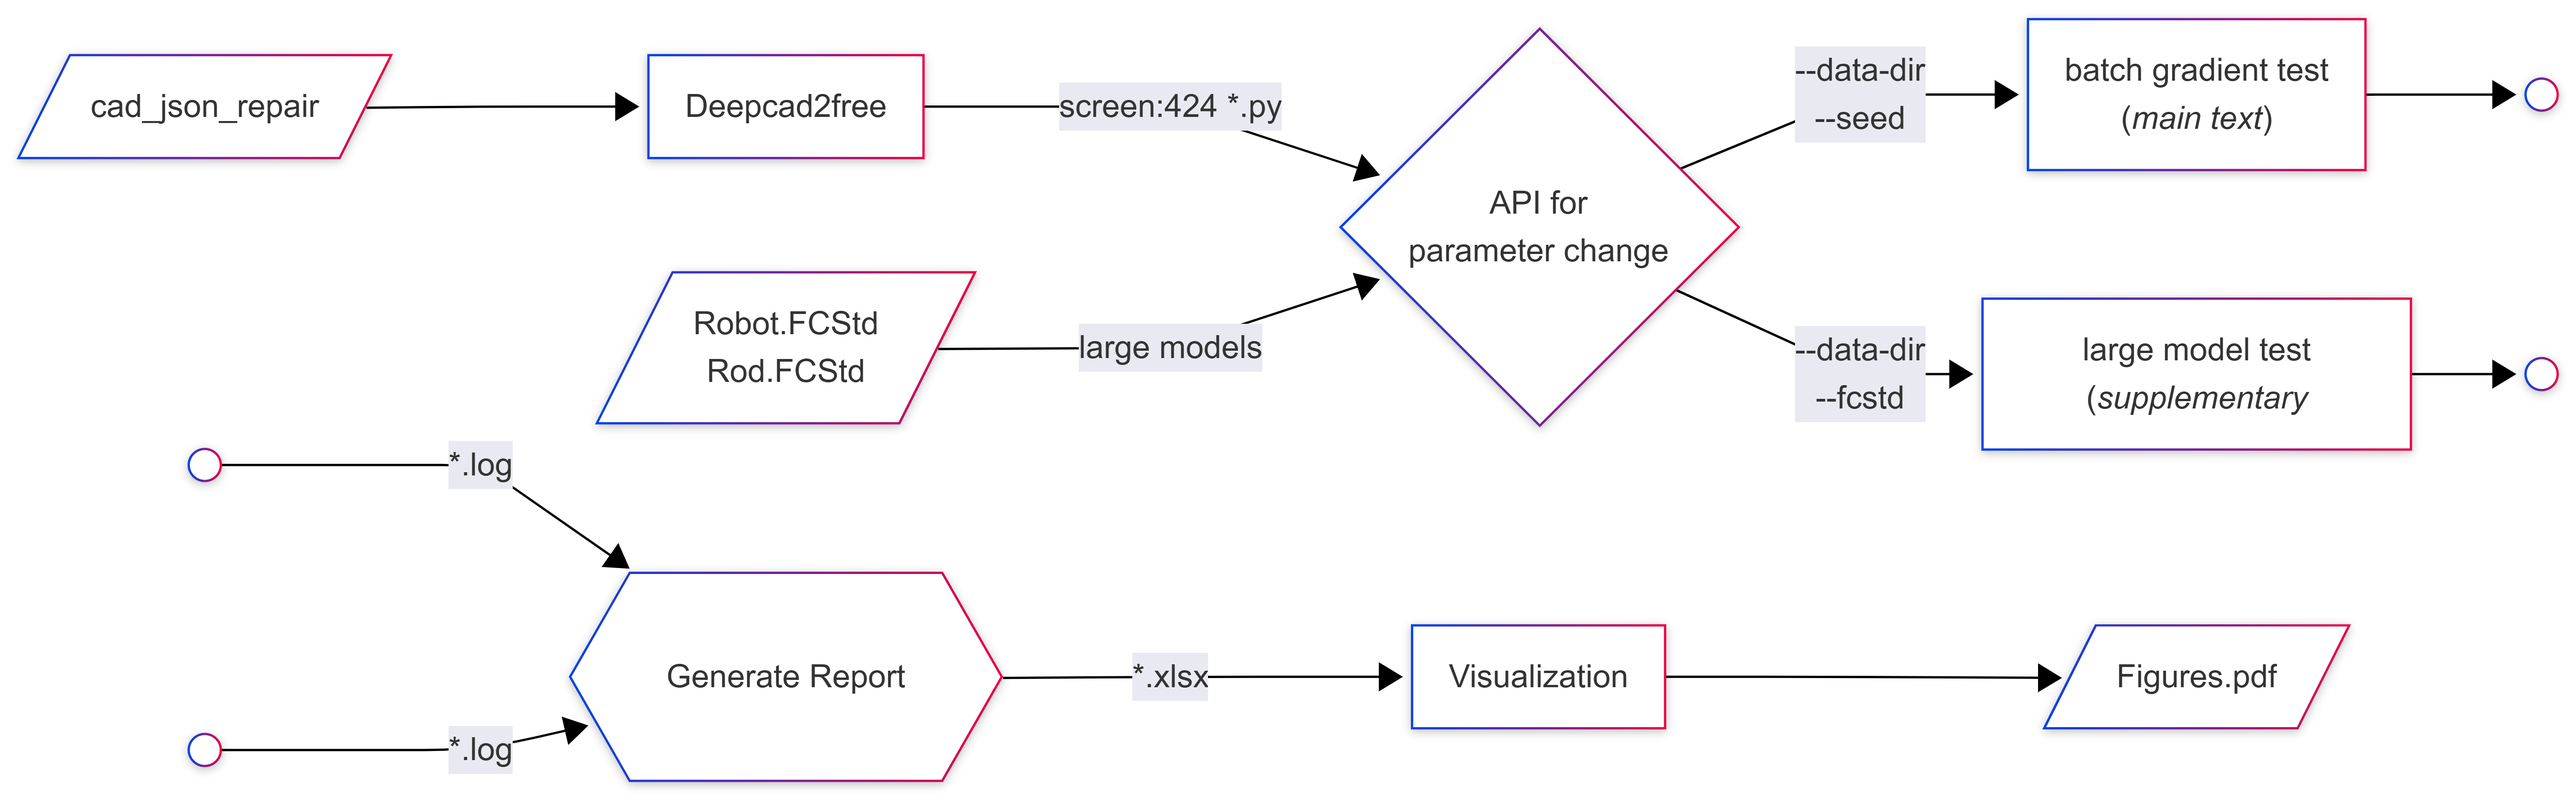
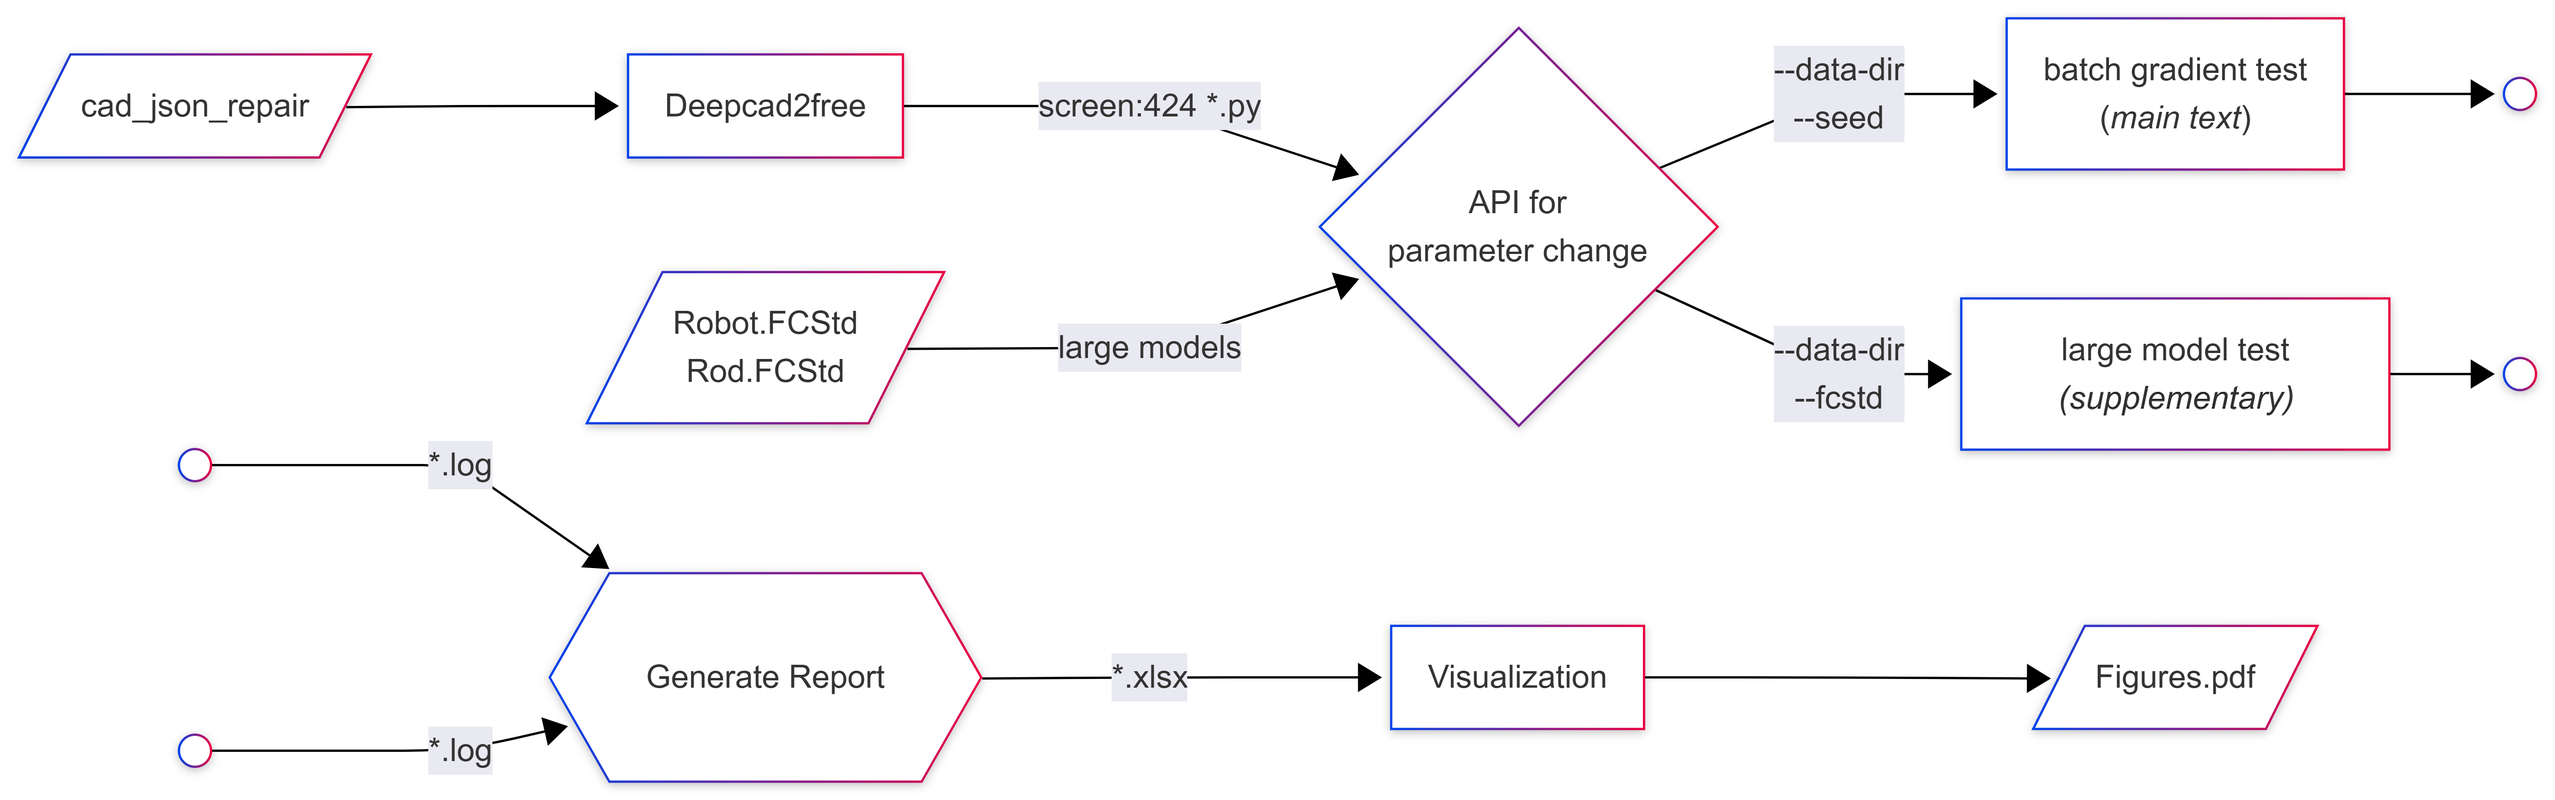
modify author info

diff --git a/index.html b/index.html
@@ -47,20 +47,20 @@
     <!-- Authors -->
     <div class="authors">
       <div class="author-list">
-        <a href="https://orcid.org/0009-0009-6407-5064" target="_blank" rel="noopener">Zehao Chen<sup>1</sup></a>
-        <a href="https://orcid.org/0009-0009-6427-8750" target="_blank" rel="noopener">Zihe Zheng<sup>1</sup></a>
+        <a href="https://orcid.org/0009-0009-6407-5064" target="_blank" rel="noopener">Zehao Chen<sup>1*</sup></a>
+        <a href="https://orcid.org/0009-0009-6427-8750" target="_blank" rel="noopener">Zihe Zheng<sup>1*</sup></a>
         <a href="https://orcid.org/0009-0005-1199-0390" target="_blank" rel="noopener">Yang Lu<sup>2</sup></a>
-        <a href="https://orcid.org/0009-0007-8619-6882" target="_blank" rel="noopener">YuShan Feng<sup>1</sup></a>
+        <a href="https://orcid.org/0009-0007-8619-6882" target="_blank" rel="noopener">Yushan Feng<sup>1</sup></a>
         <a href="https://orcid.org/0009-0006-3764-2818" target="_blank" rel="noopener">Jialin Li<sup>1</sup></a>
         <a href="https://orcid.org/0009-0007-3527-6313" target="_blank" rel="noopener">Cong Chen<sup>2</sup></a>
-        <a href="https://orcid.org/0000-0003-4352-1431" target="_blank" rel="noopener">Ligang Liu<sup>1</sup>*</a>
+        <a href="https://orcid.org/0000-0003-4352-1431" target="_blank" rel="noopener">Ligang Liu<sup>1&dagger;</sup></a>
       </div>
       <div class="institution">
         <sup>1</sup> University of Science and Technology of China &nbsp;&middot;&nbsp;
         <sup>2</sup> Sheyun Technology
       </div>
       <div class="institution" style="font-size:0.85rem; margin-top:2px;">
-        * Corresponding author
+        * Equal contribution &nbsp;&middot;&nbsp; &dagger; Corresponding author
       </div>
     </div>
 
